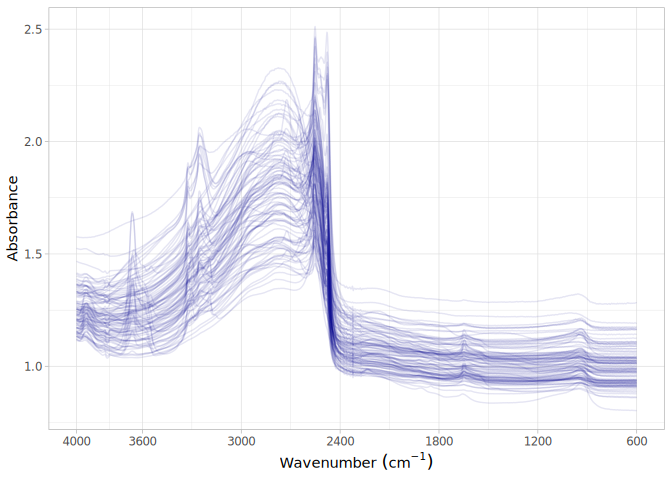
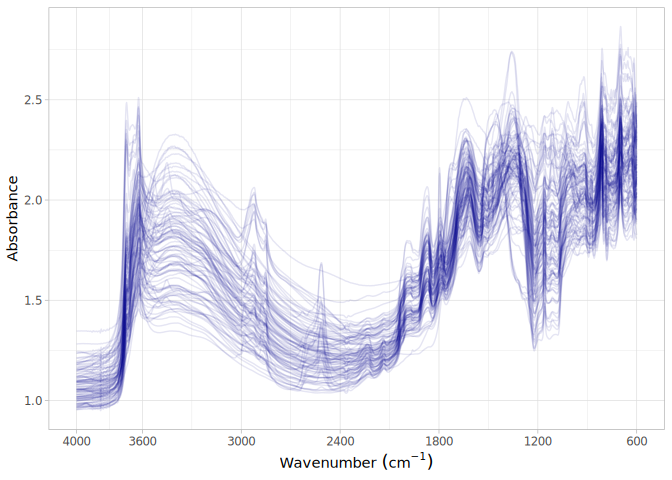
correct WCRC spectra

diff --git a/dataset/NEON/README.md b/dataset/NEON/README.md
@@ -383,7 +383,7 @@ wcrc.mir <- wcrc.mir %>%
       select(-all_of(spectral.cols.spike))}, .) %>%
   pivot_longer(starts_with("X")) %>%
   mutate(name = as.numeric(gsub("X", "", name))) %>%
-  arrange(id.scan_local_c, name) %>%
+  arrange(id.scan_local_c, desc(name)) %>%
   pivot_wider()
 
 # Need to resample spectra
@@ -642,7 +642,7 @@ neon.mir %>%
 toc()
 ```
 
-    22.966 sec elapsed
+    22.609 sec elapsed
 
 ``` r
 rm(list = ls())
@@ -650,8 +650,8 @@ gc()
 ```
 
                used  (Mb) gc trigger  (Mb) max used  (Mb)
-    Ncells  6426430 343.3   10786761 576.1 10488616 560.2
-    Vcells 12028612  91.8   28956137 221.0 28956137 221.0
+    Ncells  6426161 343.2   10786874 576.1 10488349 560.2
+    Vcells 12027946  91.8   28955178 221.0 28955176 221.0
 
 ## References
 
